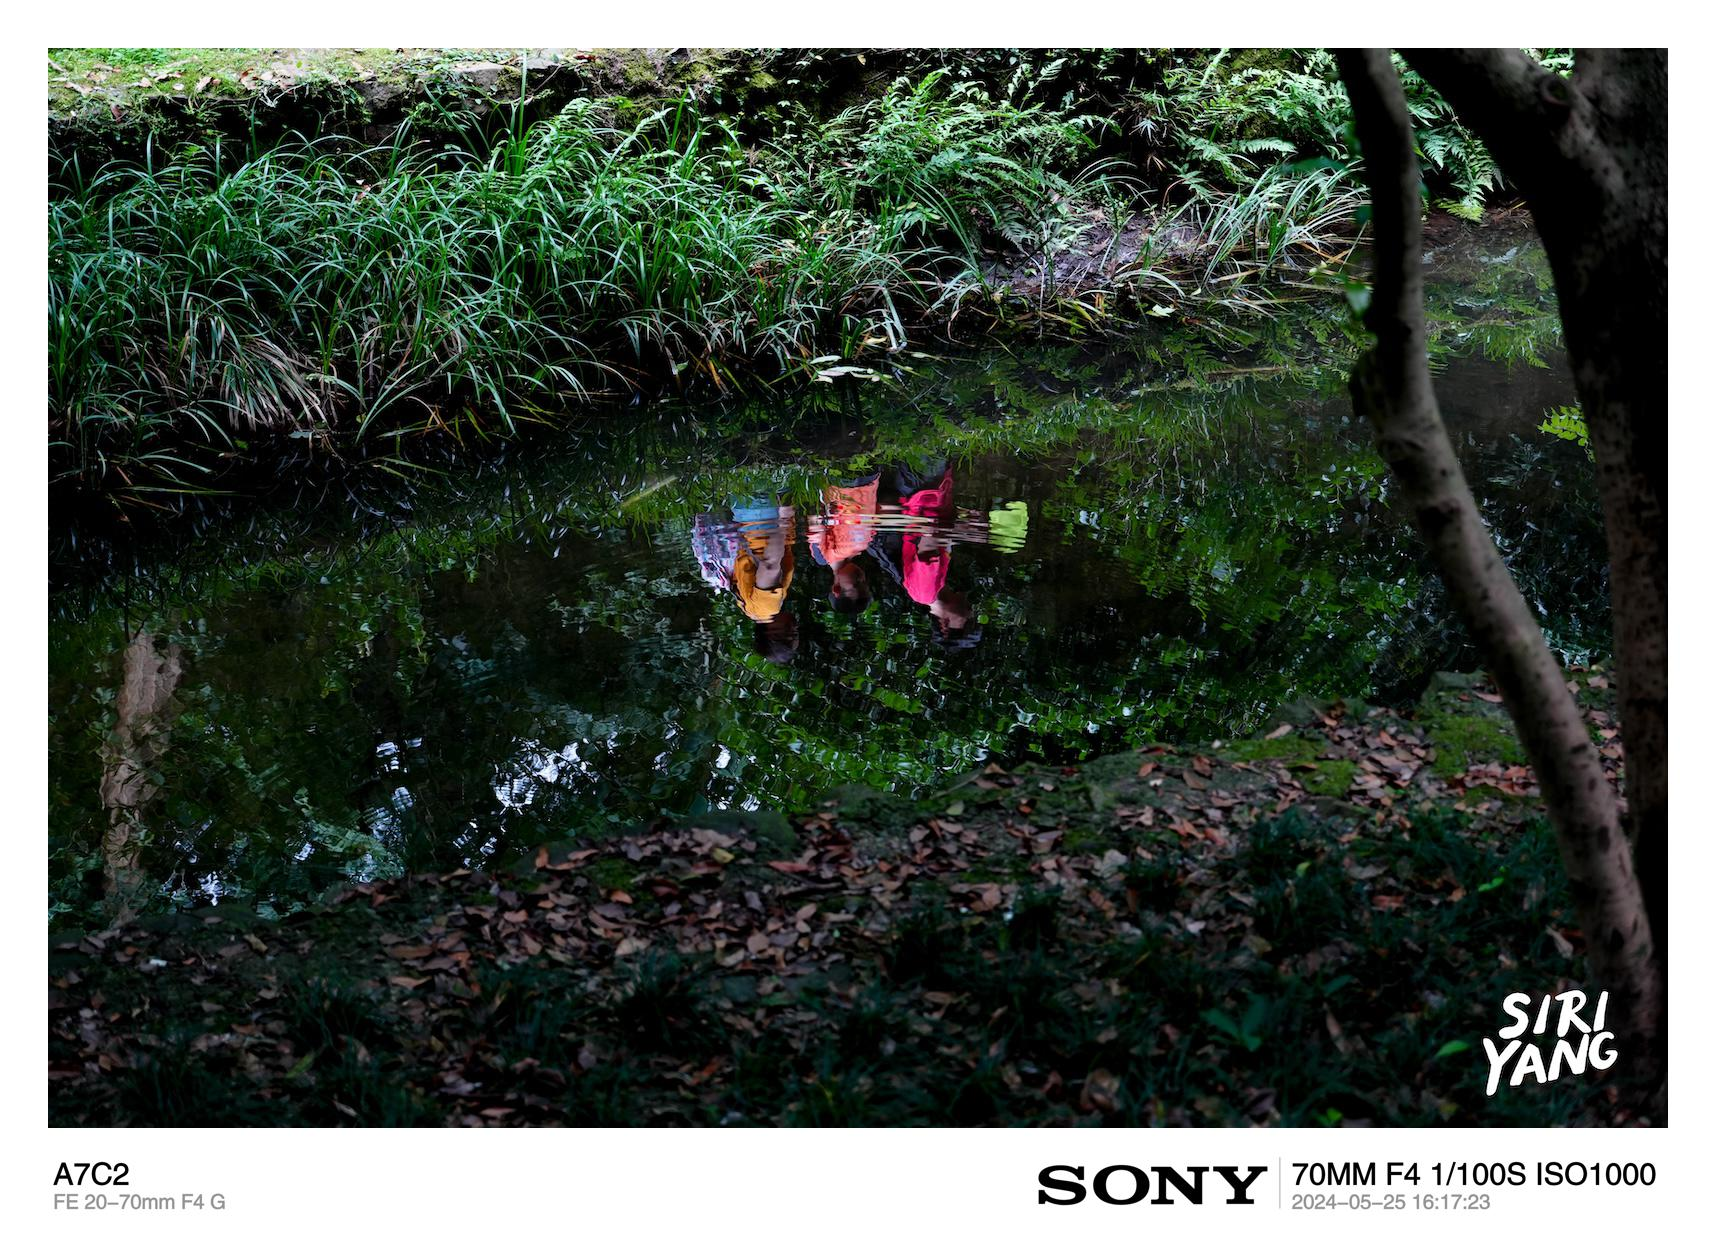
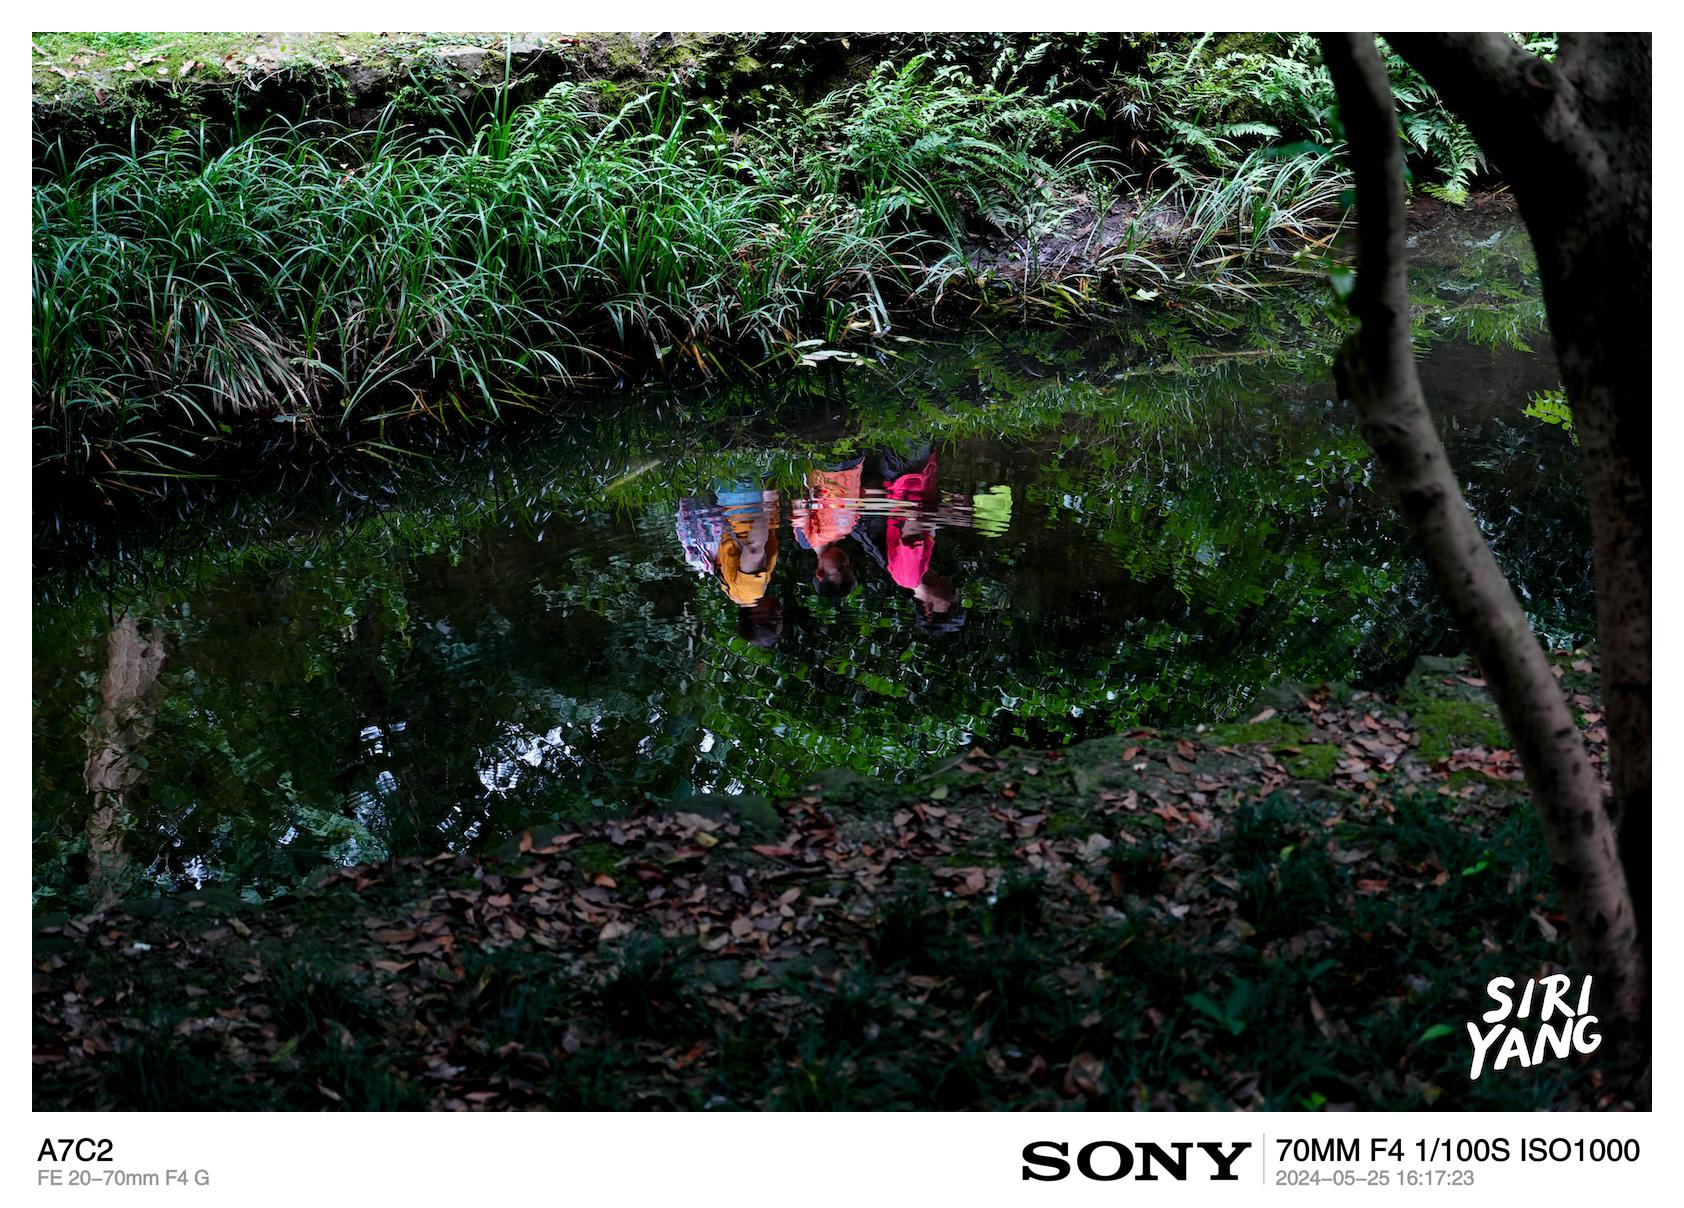
更新：更新边框宽度计算逻辑

diff --git a/CameraWatermarker.py b/CameraWatermarker.py
@@ -82,7 +82,7 @@ def camera_watermarker(img_file,output_dir='./',output_suffix='',str_map={},bord
 
     org_img_w = org_img.size[0]
     org_img_h = org_img.size[1]
-    border_w = int(org_img_w * border)
+    border_w = int(org_img_w * border) if org_img_w < org_img_h else int(org_img_h * border)
     wm_width = org_img_w # 原始宽度
     wm_heigh = int(org_img_h*0.06) # 原始照片高度的百分比
     res_img_w = wm_width + border_w*2
